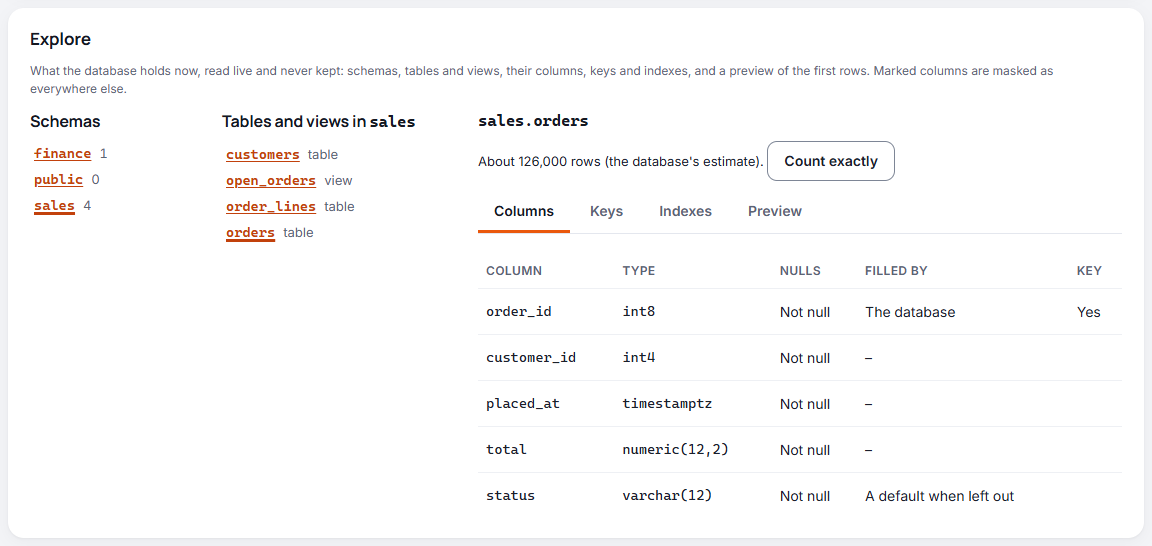
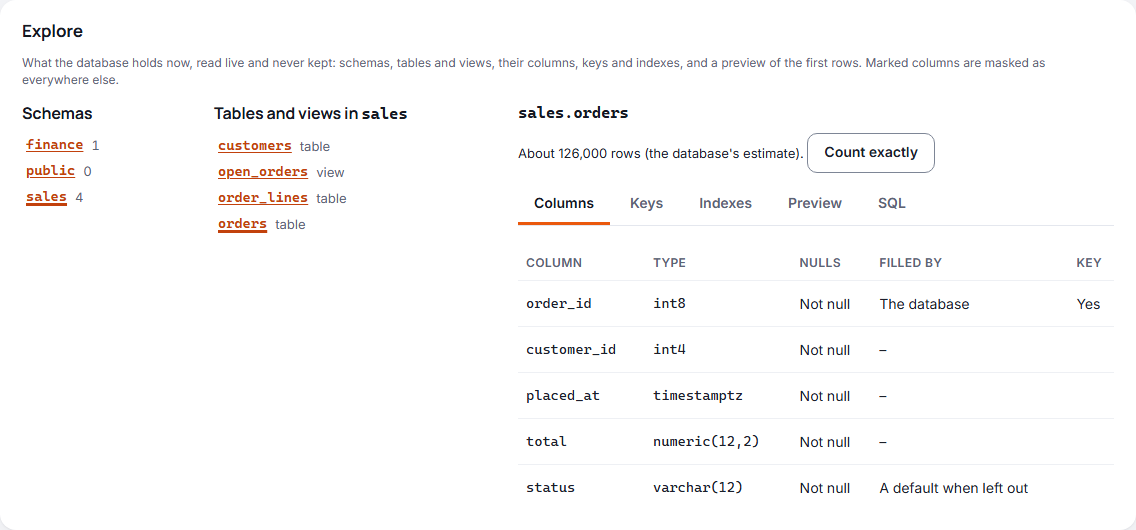
Docs: panel layout in the changelog, Explore pictures retaken
The guide's Explore and SQL tab pictures show the wider tables column
and the spaced SQL tab. Retaken on a throwaway server from a synthetic
sales database (the same tables as before), light theme, 1200 px, the
side bar and header left out. No other guide or README picture shows a
panel whose layout changed (the canvas pictures show no node settings;
a code-face box is 1 px shorter).

diff --git a/CHANGELOG.md b/CHANGELOG.md
@@ -13,6 +13,24 @@ details.
   "Table or file" box beside it. A setting with several controls, such as Key columns, no longer
   draws a rule and padding above itself, and its box comes before the list of what is chosen.
 
+- **Panels laid out evenly**: a sweep of every panel at 1900, 1280 and 1024 pixels, measured
+  rather than eyeballed.
+  - Node settings: an on/off setting's name now sits level with the names beside it (it was
+    11 pixels lower), and every setting's name is the same size, whether one box or several.
+    A list of columns keeps one column's width whether or not any are chosen, instead of
+    stretching across the panel once the first is added. A pair's two boxes (a column and its
+    expression, a column and the one it matches, a column and its new name) sit side by side
+    where there is room. A read node's checklist says what it reads under the boxes, a node's id
+    has its help under the box, "None chosen." no longer leaves a gap before the help, and a
+    long node id wraps in the side column instead of running into the settings. A setting's
+    default no longer pulls the word before it onto the next line.
+  - Boxes in the code face are as tall as the others (40 pixels, not 41).
+  - Email settings: a number's unit sits beside its box, centred, and the boxes are a number's
+    width; Send a test email is as wide as its words; Allowed email domains has the box under
+    its name and the help last.
+  - Explore: a long table name keeps its kind on the same line, and the SQL tab's choices and
+    Generate SQL no longer touch the text above them.
+
 - **Quieter start and stop**: `kilnmark.sh` and `kilnmark.cmd` no longer show Podman's notice
   that it runs an external compose tool (they set `PODMAN_COMPOSE_WARNING_LOGS=false` for their
   own compose commands), and `up` and `down` show compose's container ids and names only when
